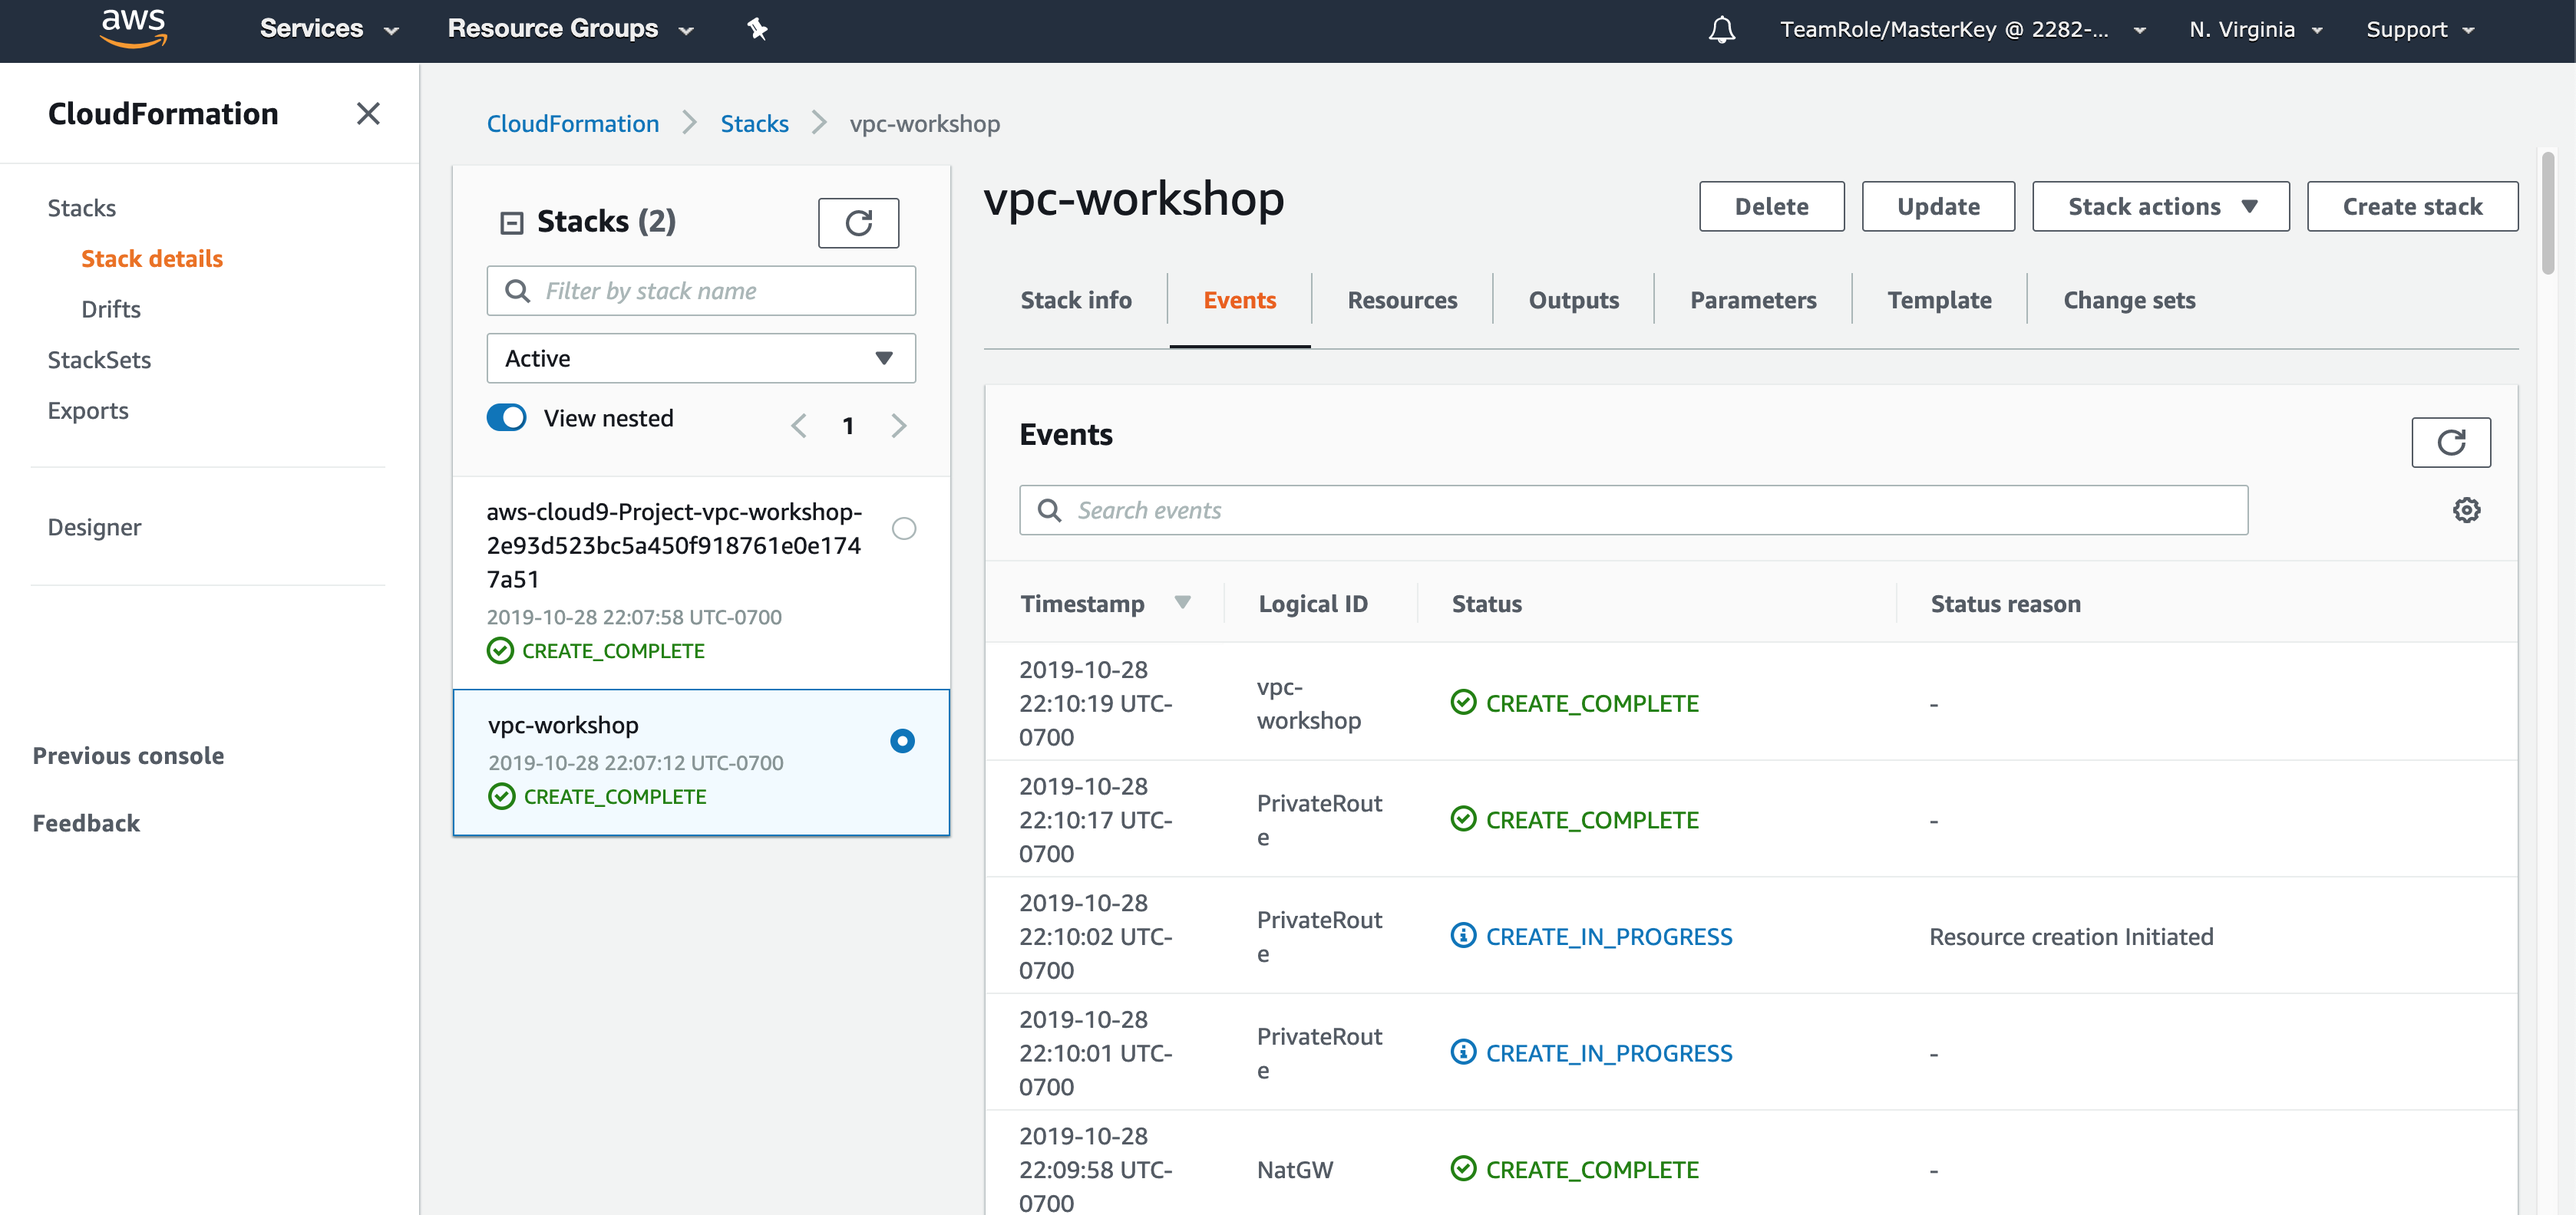
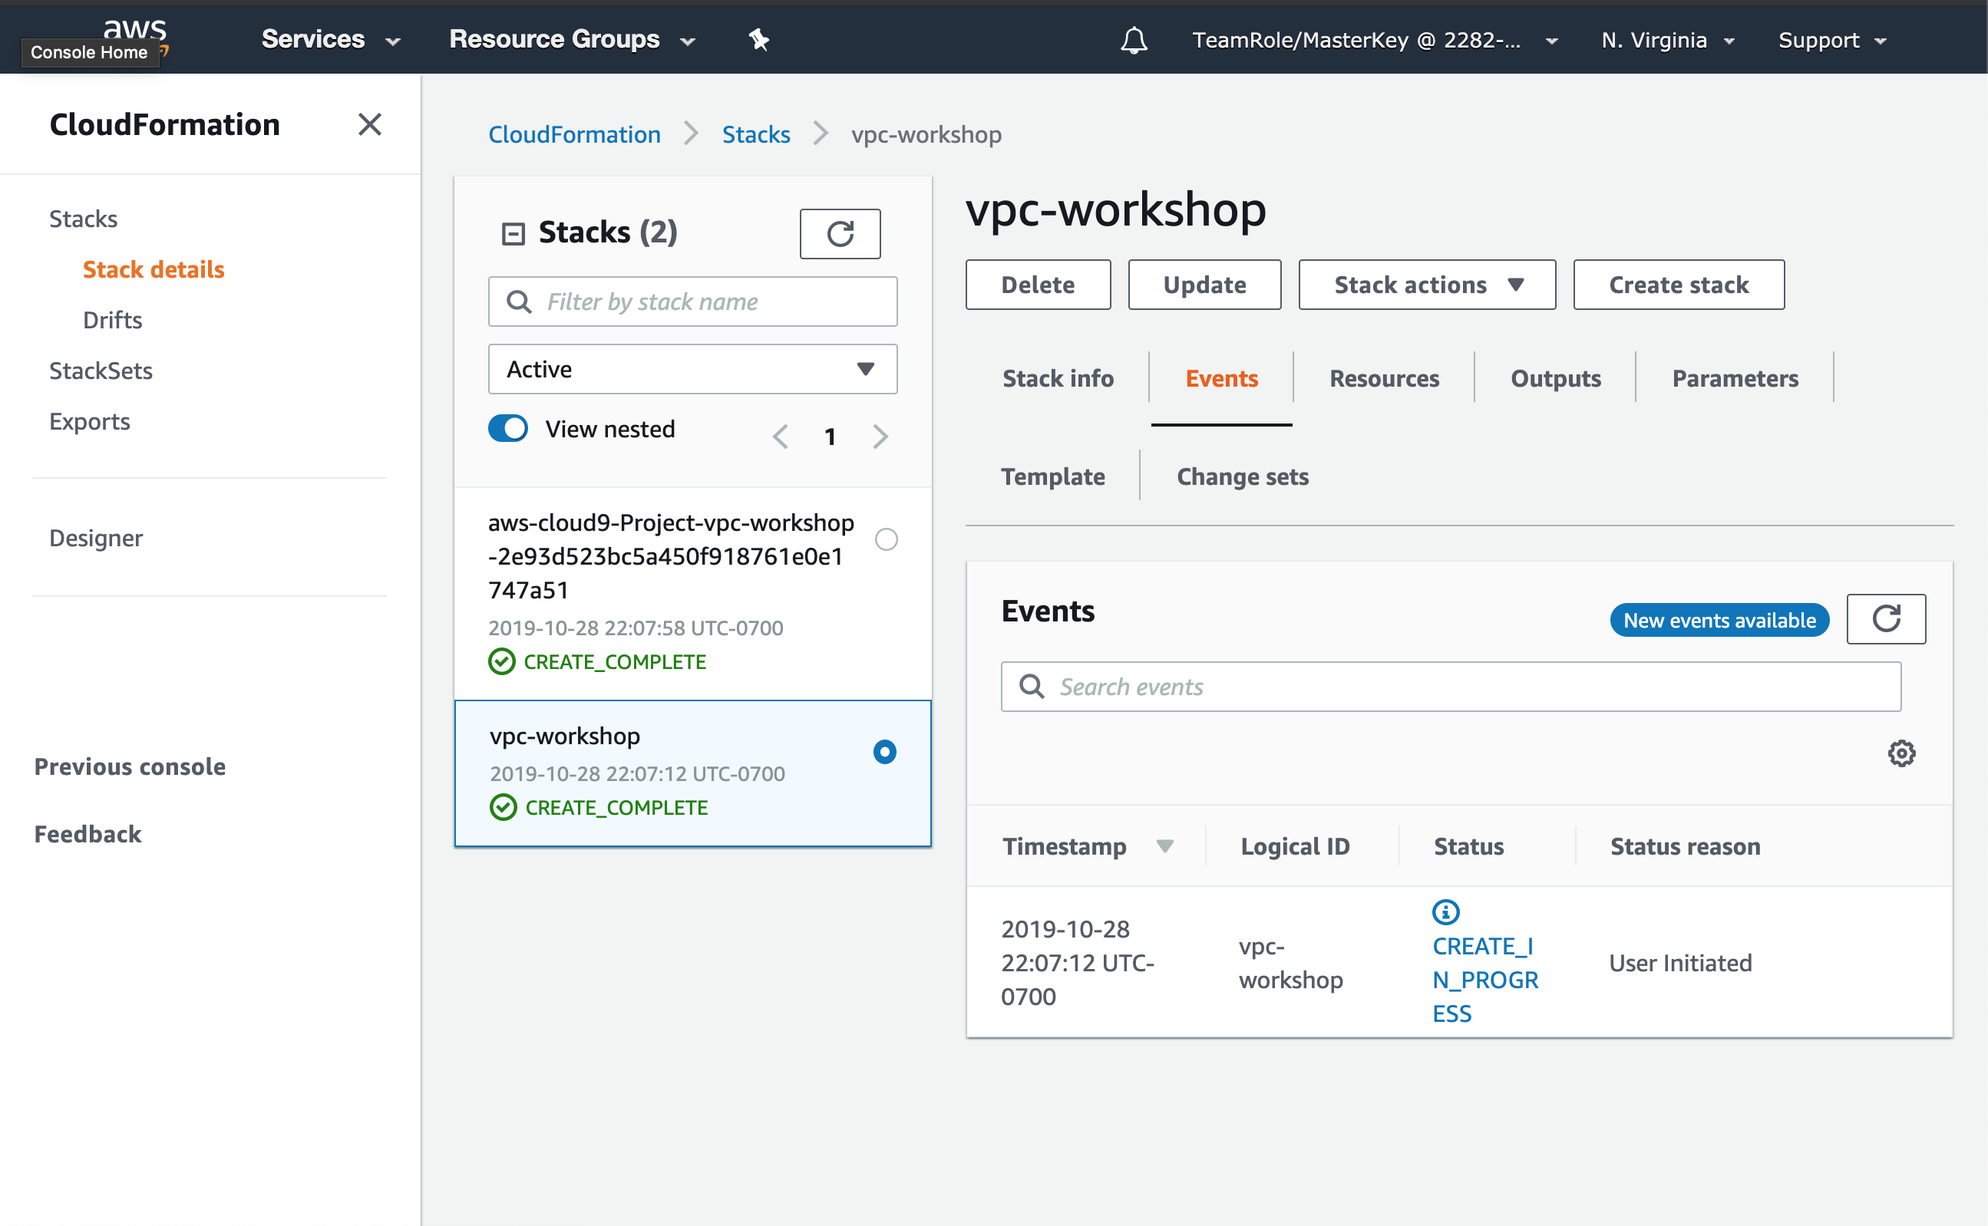
updates

diff --git a/README.md b/README.md
@@ -6,7 +6,7 @@ The goal of this workshop is to give users a hands on experience building CloudF
 
 ### Workshop Setup
 
-Workshop accounts have already been created for you. Simply log into them and start the labs. You can feel free to run commands from anywhere, but a Cloud9 instance has been created for your convenience.
+Workshop accounts have already been created for you. Simply log into them and start the labs. You can feel free to run commands from anywhere, but a Cloud9 instance will be created for your convenience.
 
 Use the accounts previously provided to you. Sign in at https://acctnum.signin.aws.amazon.com/.
 
@@ -14,20 +14,25 @@ Click on the **Deploy to AWS** icon below to region to stand up the core worksho
 
 Region | Launch Template
 ------------ | -------------  
-**N. Virginia** (us-east-1) | [![Launch Stack into Oregon with CloudFormation](images/deploy-to-aws.png)](https://console.aws.amazon.com/cloudformation/home?region=us-east-1#/stacks/new?stackName=aws-simple-lab&templateURL=https://s3-us-west-2.amazonaws.com/immersionday.hubertcheung.com/aws-simple-lab-createvpc.yml)  
+**N. Virginia** (us-east-1) | [![Launch Stack into N. Virginia with CloudFormation](images/deploy-to-aws.png)](https://console.aws.amazon.com/cloudformation/home?region=us-east-1#/stacks/new?stackName=aws-simple-lab&templateURL=https://s3-us-west-2.amazonaws.com/immersionday.hubertcheung.com/aws-simple-lab-createvpc.yml)  
 <!-- **Ireland** (eu-west-1) | [![Launch Stack into Ireland with CloudFormation](images/deploy-to-aws.png)](https://console.aws.amazon.com/cloudformation/home?region=eu-west-1#/stacks/new?stackName=cfn-workshop&templateURL=https://s3-us-west-2.amazonaws.com/immersionday.hubertcheung.com/createVPC.yml)  
 **Oregon** (us-west-2) | [![Launch Stack into Oregon with CloudFormation](images/deploy-to-aws.png)](https://console.aws.amazon.com/cloudformation/home?region=us-west-2#/stacks/new?stackName=cfn-workshop&templateURL=https://s3-us-west-2.amazonaws.com/immersionday.hubertcheung.com/createVPC.yml)  -->
 
 Once you click the button above, you should be taken to the AWS CloudFormation console. Keep clicking **Next** until your stack starts creating.
 
-![CFN 1](images/cfn-1.png)
-![CFN final](images/cfn-5.png)
+Click **Next**
 
-Eventually, you'll see 2 stacks and a **CREATE_COMPLETE**:
+![CFN 1](images/cfn-1.png)
+
+Leave the name as **aws-simple-lab**, click **Next**
+
+![CFN final](images/cfn-2.png)
+
+Keep clicking **Next** until you get to **Create Stack**, then click **Create Stack**. Eventually, you'll see 2 stacks and a **CREATE_COMPLETE**:
 
 ![CFN COMPLETE](images/cfn-complete.png)
 
-
+Once you see that everything is in a **CREATE_COMPLETE** state, move on to the next step
 
 ### Familiarize yourself with the workshop environment
 
